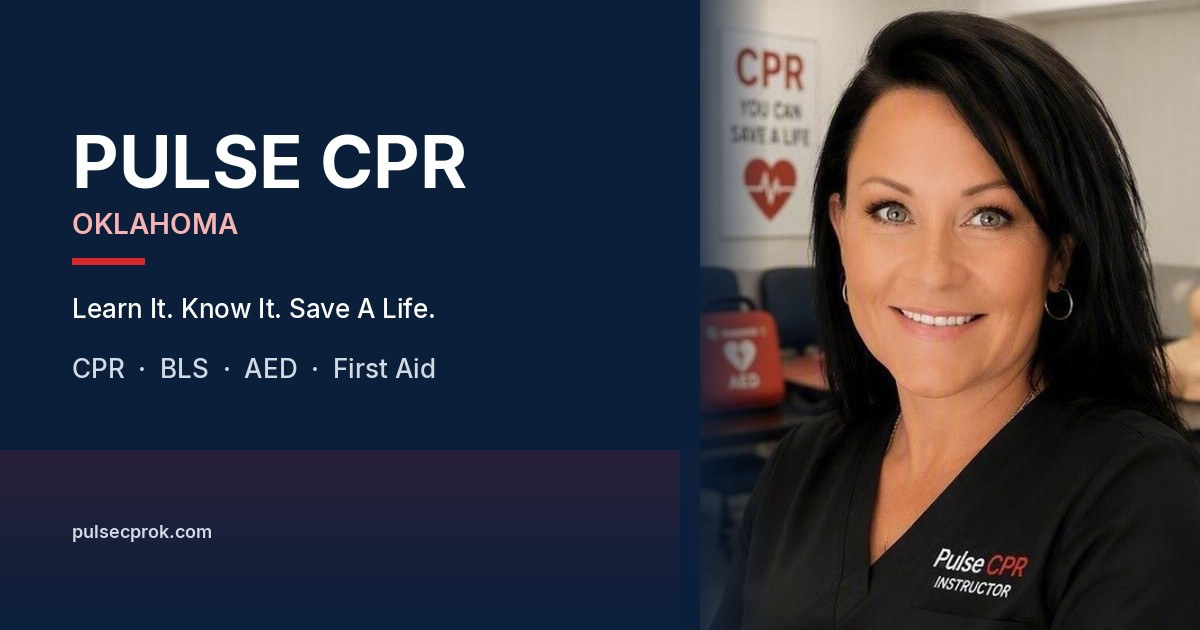
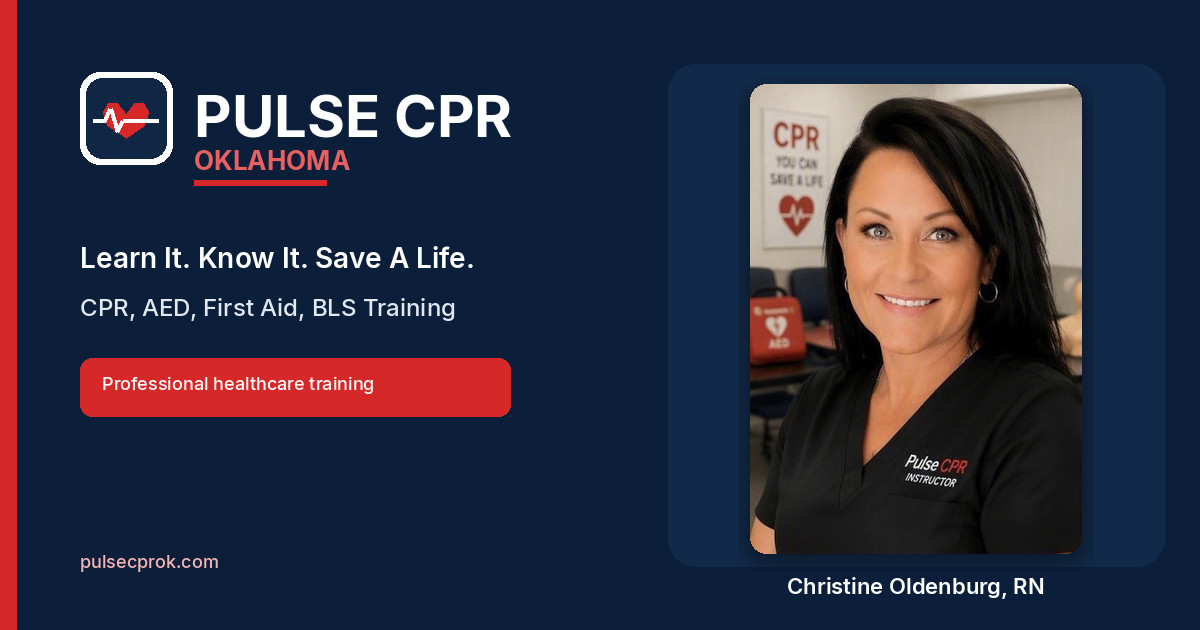
Create a dedicated 1200x630 Pulse CPR social share image
Compose a baseline JPEG from the Pulse CPR logo and Christine’s full uncropped portrait, with the tagline, Oklahoma, and course list inside Facebook safe margins. Point Open Graph width, height, type, and alt at https://pulsecprok.com/og-image.jpg.

diff --git a/src/app/layout.tsx b/src/app/layout.tsx
@@ -15,6 +15,7 @@ import {
   HOME_TWITTER_DESCRIPTION,
   SHARE_IMAGE_URL,
   localBusinessJsonLd,
+  ogImage,
   websiteJsonLd,
 } from "@/lib/seo"
 import { siteConfig } from "@/lib/site"
@@ -80,7 +81,7 @@ export const metadata: Metadata = {
         secureUrl: SHARE_IMAGE_URL,
         width: 1200,
         height: 630,
-        alt: "Pulse CPR Oklahoma",
+        alt: ogImage.alt,
         type: "image/jpeg",
       },
     ],

diff --git a/src/lib/seo.ts b/src/lib/seo.ts
@@ -16,7 +16,7 @@ export const ogImage = {
   secureUrl: SHARE_IMAGE_URL,
   width: 1200,
   height: 630,
-  alt: "Pulse CPR Oklahoma",
+  alt: "Pulse CPR Oklahoma — Learn It. Know It. Save A Life. Instructor Christine Oldenburg, RN. CPR, AED, First Aid, and BLS training.",
   type: "image/jpeg",
 } as const
 

diff --git a/scripts/generate-og-image.py b/scripts/generate-og-image.py
@@ -1,0 +1,152 @@
+#!/usr/bin/env python3
+"""Compose the Pulse CPR 1200x630 Open Graph image as a baseline JPEG."""
+
+from __future__ import annotations
+
+from pathlib import Path
+
+from PIL import Image, ImageDraw, ImageFilter, ImageFont
+
+ROOT = Path(__file__).resolve().parents[1]
+OUT = ROOT / "public" / "og-image.jpg"
+PHOTO = ROOT / "public" / "images" / "christine-oldenburg.jpg"
+
+NAVY = (11, 31, 58)
+NAVY_DEEP = (7, 21, 38)
+NAVY_CARD = (18, 42, 74)
+RED = (214, 40, 40)
+RED_SOFT = (232, 96, 96)
+WHITE = (255, 255, 255)
+MIST = (226, 232, 240)
+PINK = (248, 180, 180)
+
+W, H = 1200, 630
+# Facebook / LinkedIn / X safe inset (keep type and faces off the crop edges)
+SAFE = 72
+
+
+def font(weight: str, size: int) -> ImageFont.FreeTypeFont:
+    names = {
+        "regular": "Inter-Regular.ttf",
+        "medium": "Inter-Medium.ttf",
+        "semibold": "Inter-SemiBold.ttf",
+        "bold": "Inter-Bold.ttf",
+    }
+    path = Path("/usr/share/fonts/truetype/macos") / names[weight]
+    return ImageFont.truetype(str(path), size)
+
+
+def draw_logo(draw: ImageDraw.ImageDraw, x: int, y: int, size: int = 88) -> None:
+    r = max(12, round(size * 0.22))
+    draw.rounded_rectangle((x, y, x + size, y + size), radius=r, fill=WHITE)
+    inner = round(size * 0.06)
+    draw.rounded_rectangle(
+        (x + inner, y + inner, x + size - inner, y + size - inner),
+        radius=max(8, r - 4),
+        fill=(15, 39, 68),
+    )
+    s = size / 40
+    ox, oy = x, y
+
+    def p(px: float, py: float) -> tuple[float, float]:
+        return ox + px * s, oy + py * s
+
+    heart = [
+        p(20, 29),
+        p(12.5, 23.8),
+        p(10.6, 20.8),
+        p(10.2, 17.2),
+        p(12.3, 13.5),
+        p(16.2, 13.8),
+        p(20, 18.4),
+        p(23.8, 13.8),
+        p(27.7, 13.5),
+        p(29.8, 17.2),
+        p(29.4, 20.8),
+        p(27.5, 23.8),
+        p(20, 29),
+    ]
+    draw.polygon(heart, fill=RED)
+    ekg = [p(6, 21), p(11, 21), p(13.2, 16), p(16.3, 26), p(18.7, 21), p(34, 21)]
+    draw.line(ekg, fill=WHITE, width=max(2, round(1.8 * s)), joint="curve")
+
+
+def fit_uncropped(src: Image.Image, box_w: int, box_h: int) -> Image.Image:
+    scale = min(box_w / src.width, box_h / src.height)
+    size = (max(1, round(src.width * scale)), max(1, round(src.height * scale)))
+    return src.resize(size, Image.Resampling.LANCZOS)
+
+
+def main() -> None:
+    canvas = Image.new("RGB", (W, H), NAVY_DEEP)
+    draw = ImageDraw.Draw(canvas)
+
+    draw.rectangle((0, 0, W, H), fill=NAVY)
+
+    # Soft right-side panel for the uncropped portrait (inside Facebook safe margins)
+    panel_left, panel_right = 700, W - SAFE
+    panel_top, panel_bottom = SAFE, H - SAFE
+    draw.rounded_rectangle((panel_left, panel_top, panel_right, panel_bottom), radius=28, fill=NAVY_CARD)
+
+    photo = Image.open(PHOTO).convert("RGB")
+    photo_box_w = panel_right - panel_left - 48
+    photo_box_h = panel_bottom - panel_top - 78
+    fitted = fit_uncropped(photo, photo_box_w, photo_box_h)
+    px = panel_left + (panel_right - panel_left - fitted.width) // 2
+    py = panel_top + 22
+    shadow = Image.new("RGBA", (fitted.width + 24, fitted.height + 24), (0, 0, 0, 0))
+    sd = ImageDraw.Draw(shadow)
+    sd.rounded_rectangle((6, 10, fitted.width + 18, fitted.height + 18), radius=18, fill=(0, 0, 0, 90))
+    shadow = shadow.filter(ImageFilter.GaussianBlur(8))
+    canvas.paste(shadow, (px - 12, py - 8), shadow)
+    mask = Image.new("L", fitted.size, 0)
+    ImageDraw.Draw(mask).rounded_rectangle((0, 0, fitted.width - 1, fitted.height - 1), radius=16, fill=255)
+    canvas.paste(fitted, (px, py), mask)
+
+    caption_font = font("semibold", 22)
+    caption = "Christine Oldenburg, RN"
+    cw = draw.textlength(caption, font=caption_font)
+    cap_x = panel_left + (panel_right - panel_left - cw) // 2
+    cap_y = py + fitted.height + 18
+    draw.text((cap_x, cap_y), caption, font=caption_font, fill=WHITE)
+
+    logo_x, logo_y = SAFE + 8, SAFE
+    draw_logo(draw, logo_x, logo_y, 92)
+
+    title_font = font("bold", 58)
+    ok_font = font("bold", 26)
+    tag_font = font("semibold", 28)
+    train_font = font("medium", 24)
+    small_font = font("medium", 18)
+
+    text_x = logo_x + 92 + 22
+    draw.text((text_x, logo_y + 8), "PULSE CPR", font=title_font, fill=WHITE)
+    draw.text((text_x, logo_y + 72), "OKLAHOMA", font=ok_font, fill=RED_SOFT)
+    line_y = logo_y + 108
+    draw.rectangle((text_x, line_y, text_x + 132, line_y + 5), fill=RED)
+
+    tag = "Learn It. Know It. Save A Life."
+    draw.text((logo_x, SAFE + 168), tag, font=tag_font, fill=WHITE)
+
+    training = "CPR, AED, First Aid, BLS Training"
+    draw.text((logo_x, SAFE + 220), training, font=train_font, fill=MIST)
+
+    draw.rounded_rectangle((logo_x, SAFE + 286, logo_x + 430, SAFE + 344), radius=12, fill=(214, 40, 40))
+    draw.text((logo_x + 22, SAFE + 300), "Professional healthcare training", font=small_font, fill=WHITE)
+
+    draw.text((logo_x, H - SAFE - 8), "pulsecprok.com", font=small_font, fill=PINK)
+
+    OUT.parent.mkdir(parents=True, exist_ok=True)
+    canvas.save(
+        OUT,
+        format="JPEG",
+        quality=90,
+        optimize=True,
+        progressive=False,
+        subsampling=0,
+    )
+    print(f"wrote {OUT} {OUT.stat().st_size} bytes {canvas.size}")
+
+
+if __name__ == "__main__":
+    main()
